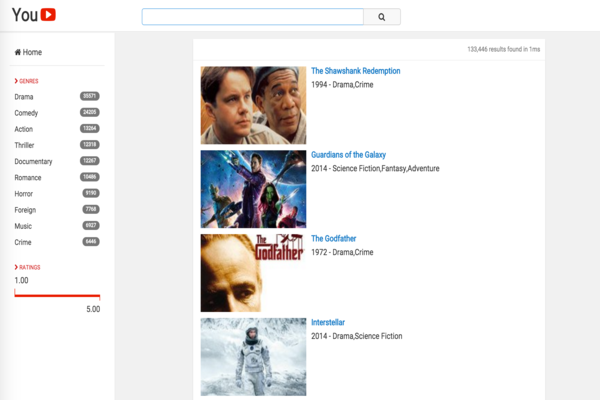
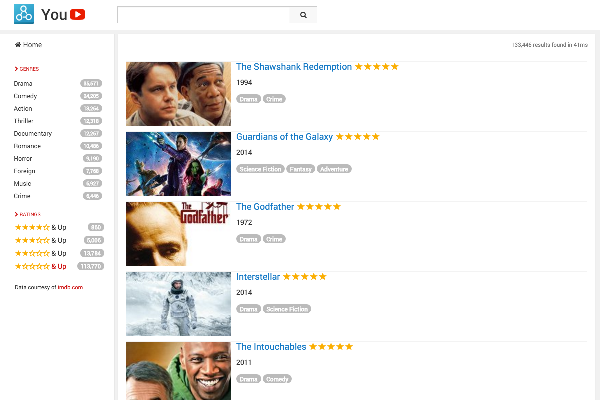
docs(media-sample): updates layout

diff --git a/docs/examples/media/style.scss b/docs/examples/media/style.scss
@@ -11,12 +11,13 @@ $media-bg: #F1F1F1;
 $media-text-color: #333333;
 $media-blue: #167AC6;
 $header-height: 56px;
-$highlight-color: #FFFFE4;
+$highlight-color: #FFFFD4;
 $shadow-color: rgba(0, 0, 0, .1);
 
 body {
   min-height: 100%;
   font-family: Roboto;
+  background: #F1F1F1;
 }
 
 a {
@@ -24,11 +25,11 @@ a {
 }
 
 hr {
-  margin-top: 10px;
-  margin-bottom: 10px;
+  margin: 10px 14px;
 }
 .is-logo{
   float: left;
+  margin-left: 18px;
 }
 .logo {
   margin-left: 15px;
@@ -54,19 +55,24 @@ header {
   right: 0;
   z-index: 2;
 
-  .input-group {
-    margin-top: 5px;
-    .form-control {
-      &:focus {
-        outline: none;
-        box-shadow: none;
+  .searchbox-container {
+    margin-left: 240px;
+    max-width: 400px;
+    .input-group {
+      margin-top: 5px;
+      .form-control {
+        &:focus {
+          outline: none;
+          box-shadow: none;
+        }
       }
-    }
 
-    .input-group-btn button {
-      padding-left: 30px;
-      padding-right: 30px;
-      background: $media-gray-light;
+      .input-group-btn button {
+        padding-left: 20px;
+        padding-right: 20px;
+        background: $media-gray-light;
+        border-radius: 0;
+      }
     }
   }
 }
@@ -78,15 +84,15 @@ section {
 
   aside {
     position: fixed;
-    top: $header-height;
+    top: $header-height + 14px;
     left: 0;
-    bottom: 0;
+    bottom: 10px;
     width: 230px;
     background: $white;
     border-right: 1px solid $media-gray;
 
     .nav {
-      margin: 10px 20px;
+      margin: 0 20px;
       li {
         a {
           display: block;
@@ -124,9 +130,10 @@ section {
       label {
         display: block;
         cursor: pointer;
-        padding: 2px 4px 2px 8px;
+        padding: 4px 4px 4px 8px;
         font-weight: normal;
         font-size: .9em;
+        margin: 0 0 -1px 0;
         &:hover {
           color: $white;
           background: $media-text-color;
@@ -138,6 +145,7 @@ section {
       .active{
         label {
           border: 1px solid $media-red-dark;
+          margin-top: -1px;
         }
         .badge {
           background: $media-text-color;
@@ -159,22 +167,27 @@ section {
       .ais-star-rating--item{
         margin-bottom: 6px;
       }
+      .ais-star-rating--item__active a {
+        color: $media-red-dark;
+      }
     }
 
   }
 
   article {
-    margin-top: $header-height + 10px;
-    margin-bottom: 50px;
-    margin-left: 400px;
+    margin-top: $header-height + 14px;
+    margin-bottom: 10px;
+    margin-left: 237px;
+    margin-right: 10px;
     padding: 10px 0;
-    width: 700px;
+    max-width: 100%;
     background: $white;
     box-shadow: 0 1px 2px $shadow-color;
 
     #stats {
-      padding-right: 10px;
+      padding-right: 14px;
       font-size: .8em;
+      line-height: 24px;
     }
 
     #hits {
@@ -200,10 +213,13 @@ section {
 
     .hit {
       margin-bottom: 10px;
+      height: 130px;
+      border: 1px solid #f3f3f3;
 
       em {
         font-style: normal;
         background: $highlight-color;
+        text-decoration: underline;
       }
 
       .media-object {
@@ -219,17 +235,34 @@ section {
 
       .media-heading {
         color: $media-blue;
-        font-weight: bold;
-        font-size: 14px;
+        font-weight: normal;
+        font-size: 18px;
       }
     }
   }
 
   .thank-you {
-    text-align: center;
     font-size: 0.8em;
+    margin-top: 18px;
+    margin-left: 30px;
     a {
       color: #CE1312;
     }
   }
+}
+
+.ais-search-box--input {
+  padding-left: 14px;
+}
+
+.genre, .year {
+  margin: 12px 0;
+}
+
+.year {
+  font-weight: bold;
+}
+
+.genre .badge{
+  background: #bbb;
 }

diff --git a/docs/examples/media/search.js b/docs/examples/media/search.js
@@ -25,8 +25,8 @@ var hitTemplate =
       '<div class="media-object"><img src="{{image}}" /></div>' +
     '</div>' +
     '<div class="media-body">' +
-      '<h4 class="media-heading">{{{_highlightResult.title.value}}}</h4>' +
-      '<p>{{year}} - {{genre}}</p>' +
+      '<h4 class="media-heading">{{{_highlightResult.title.value}}} {{#stars}}<span class="ais-star-rating--star{{^.}}__empty{{/.}}"></span>{{/stars}}</h4>' +
+      '<p class="year">{{year}}</p><p class="genre">{{#genre}}<span class="badge">{{.}}</span> {{/genre}}</p>' +
     '</div>' +
   '</div>';
 
@@ -40,6 +40,13 @@ search.addWidget(
     templates: {
       empty: noResultsTemplate,
       item: hitTemplate
+    },
+    transformData: function(hit) {
+      hit.stars = [];
+      for (var i = 1; i <= 5; ++i) {
+        hit.stars.push(i <= hit.rating);
+      }
+      return hit;
     }
   })
 );

diff --git a/docs/examples/media/index.html b/docs/examples/media/index.html
@@ -24,11 +24,11 @@
 </head>
 <body>
   <header class="row">
-    <div class="col-sm-3">
+    <div class="">
       <a href="https://community.algolia.com/instantsearch.js/" class="is-logo"><img src="logo-is.png" width=40 ></a>
       <a href="./" class="logo">You<i class="fa fa-youtube-play"></i></a>
     </div>
-    <div class="col-sm-4">
+    <div class="searchbox-container">
       <div class="input-group">
         <input type="text" class="form-control" id="q" />
         <span class="input-group-btn">
@@ -37,7 +37,7 @@
       </div>
     </div>
   </header>
-  <section class="row">
+  <section class="">
     <aside>
       <ul class="nav nav-list">
         <li><a href=""><i class="fa fa-home"></i> Home</a></li>
